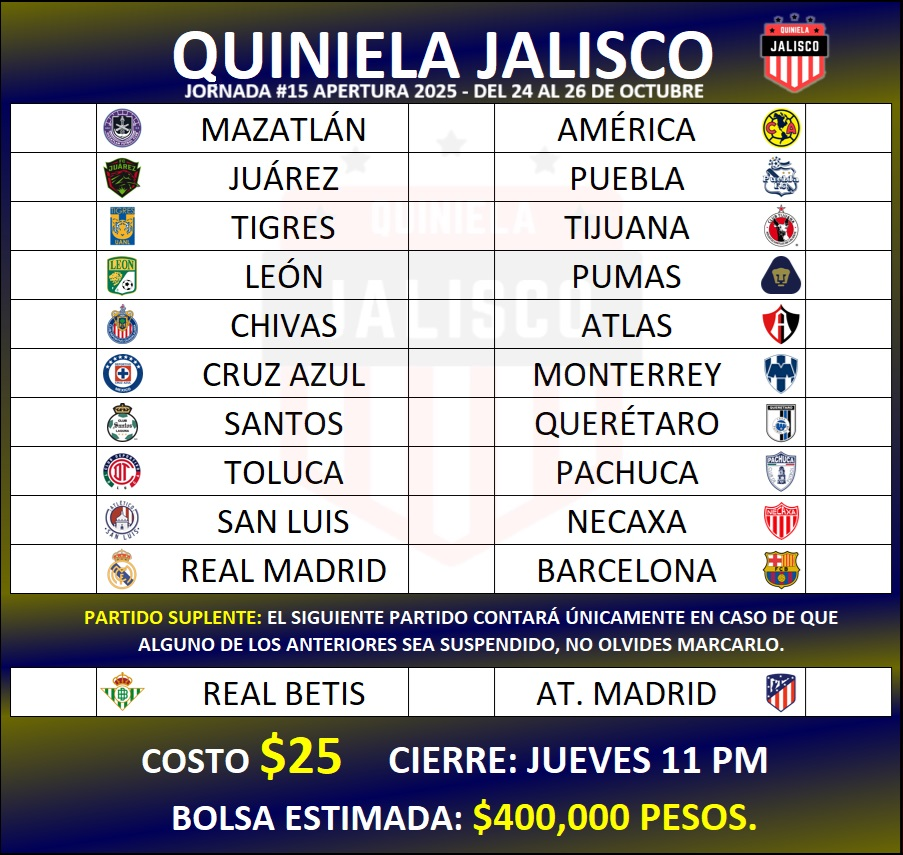
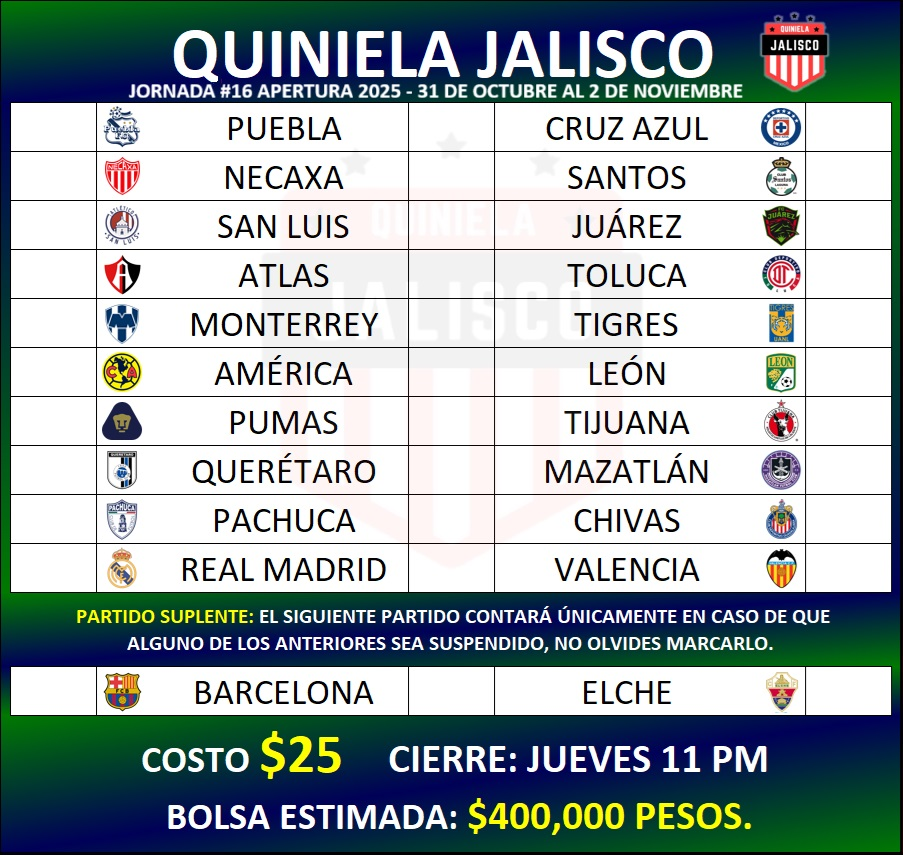
oddof

diff --git a/11/styles11.css b/11/styles11.css
@@ -95,8 +95,8 @@ body{
     margin-top: 8.5%;
     border-top: solid 1px black;
     border-radius: 0 0 14px 14px;
-    background: -webkit-linear-gradient(0.49turn, rgb(50,50,45) -7%, rgb(0,6,90) 80%);
-    background: linear-gradient(0.49turn, rgb(50,50,45) -7%, rgb(0,6,90) 80%);
+    background: -webkit-linear-gradient(0.49turn, rgb(0,70,40) -7%, rgb(0,6,90) 80%);
+    background: linear-gradient(0.49turn, rgb(0,70,40) -7%, rgb(0,6,90) 80%);
 }
 
 .text-lg{
